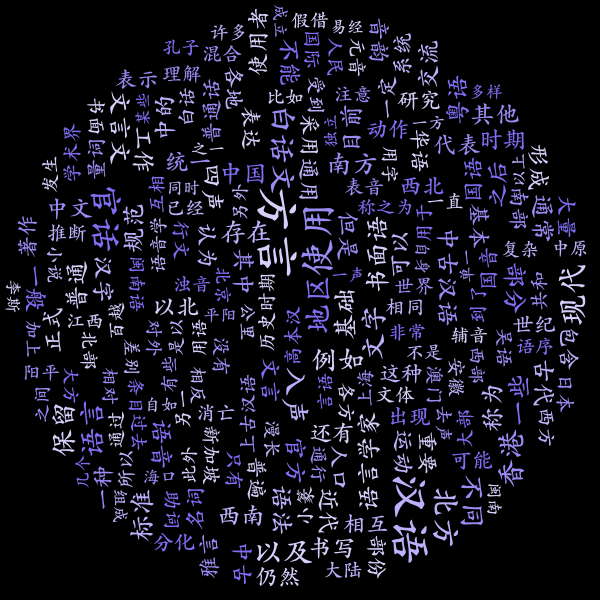
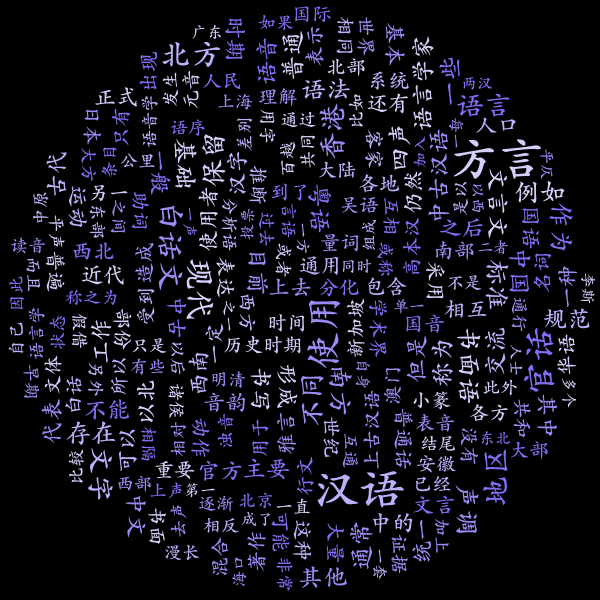
regenerate wordcloud

diff --git a/src/test/java/TestWordCloud.java b/src/test/java/TestWordCloud.java
@@ -172,7 +172,7 @@ public class TestWordCloud {
     @Test
     public void chineseCircle() throws IOException {
         final FrequencyAnalizer frequencyAnalizer = new FrequencyAnalizer();
-        frequencyAnalizer.setWordFrequencesToReturn(750);
+        frequencyAnalizer.setWordFrequencesToReturn(600);
         frequencyAnalizer.setMinWordLength(2);
         frequencyAnalizer.setWordTokenizer(new ChineseWordTokenizer());
 
@@ -181,7 +181,7 @@ public class TestWordCloud {
         wordCloud.setPadding(2);
         wordCloud.setBackground(new CircleBackground(300));
         wordCloud.setColorPalette(new ColorPalette(new Color(0xD5CFFA), new Color(0xBBB1FA), new Color(0x9A8CF5), new Color(0x806EF5)));
-        wordCloud.setFontScalar(new SqrtFontScalar(13, 45));
+        wordCloud.setFontScalar(new SqrtFontScalar(12, 45));
         final long startTime = System.currentTimeMillis();
         wordCloud.build(wordFrequencies);
         LOGGER.info("Took " + (System.currentTimeMillis() - startTime) + "ms to build");
